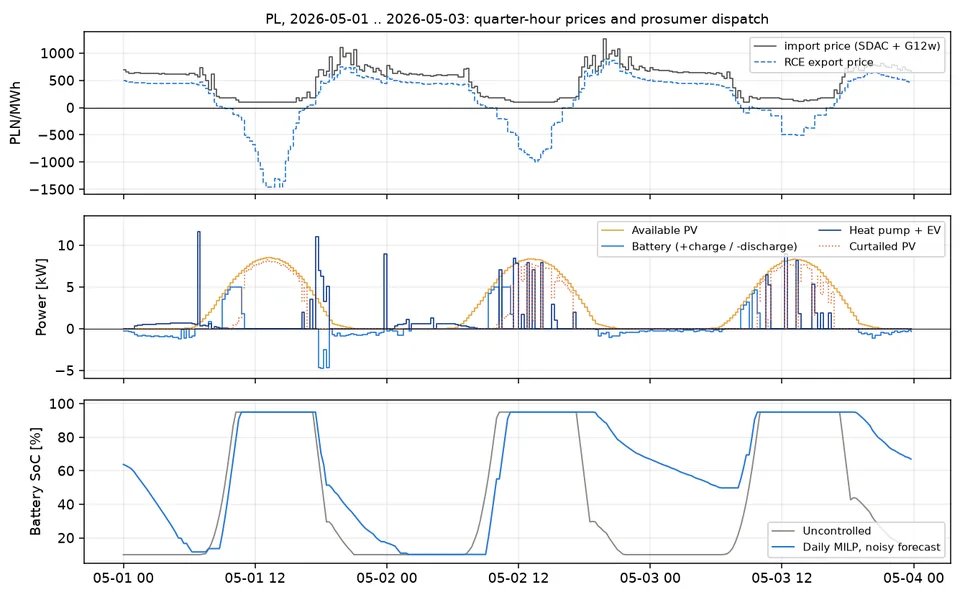
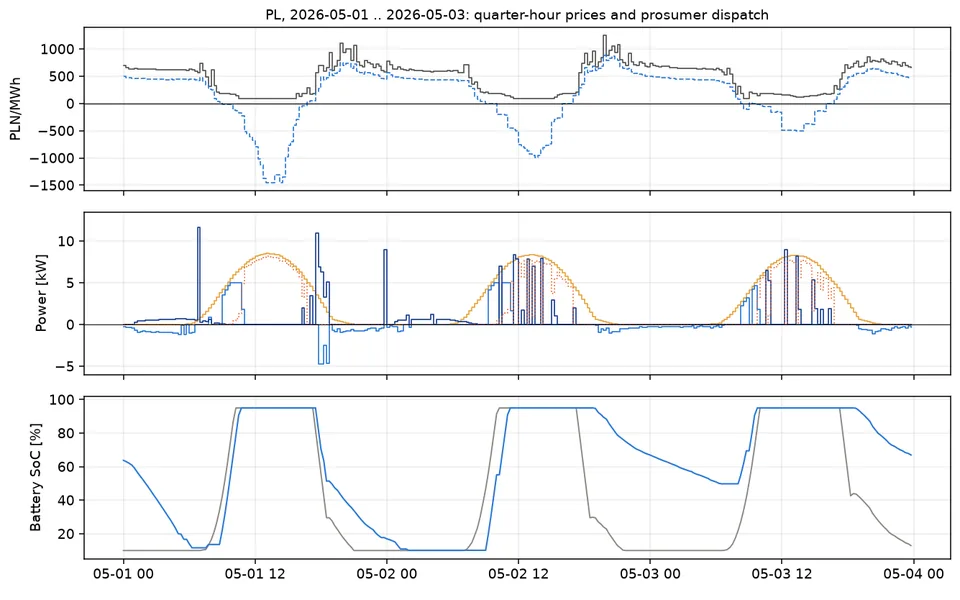
pl-hems-mpc: C23 site at 60 kW, refreshed thumbnail

diff --git a/index.html b/index.html
@@ -355,8 +355,8 @@ td + td { white-space: nowrap; }
       <div class="body">
         <div class="meta"><span class="group g-storage">Storage &amp; markets</span></div>
         <h3><a href="https://github.com/kwwaleszczynski-del/pl-hems-mpc">Home and C&amp;I energy management on 15-minute Polish prices</a></h3>
-        <p class="summary">Daily MILP vs rule-based control of rooftop PV, battery, floor-slab heat pump and EV under Polish 12-month FIFO net-billing (RCE), and of a B23 commercial site under the capacity fee (K1-K4), on real PSE prices and ERA5 weather with synthetic loads; set-points are replayed over a localhost Modbus TCP emulator with a watchdog.</p>
-        <p class="highlight">Over Oct 2025 - Sep 2026 the noisy-forecast MILP cuts a dynamic-tariff house&#x27;s annual cost by 37.4 % (2,378 PLN/yr); on the commercial site a causal ratio rule puts 88.5 % of working days in K1, against a perfect-foresight MILP bound of 98.4 %.</p>
+        <p class="summary">Daily MILP vs rule-based control of rooftop PV, battery, floor-slab heat pump and EV under Polish 12-month FIFO net-billing (RCE), and of a 60 kW low-voltage C23 commercial site under the capacity fee (K1-K4), on real PSE prices and ERA5 weather with synthetic loads; set-points are replayed over a localhost Modbus TCP emulator with a watchdog.</p>
+        <p class="highlight">Over Oct 2025 - Sep 2026 the noisy-forecast MILP cuts a dynamic-tariff house&#x27;s annual cost by 37.4 % (2,378 PLN/yr); on the commercial site a causal ratio rule puts 88.5 % of working days in K1, against a perfect-foresight MILP bound of 100 %.</p>
         <ul class="tags"><li>MILP</li><li>net-billing</li><li>Modbus TCP</li></ul>
         <div class="links"><a class="btn" href="https://github.com/kwwaleszczynski-del/pl-hems-mpc">Code</a><a class="btn primary" href="https://kwwaleszczynski-del.github.io/pl-hems-mpc/">Live page &#8599;</a></div>
       </div>
